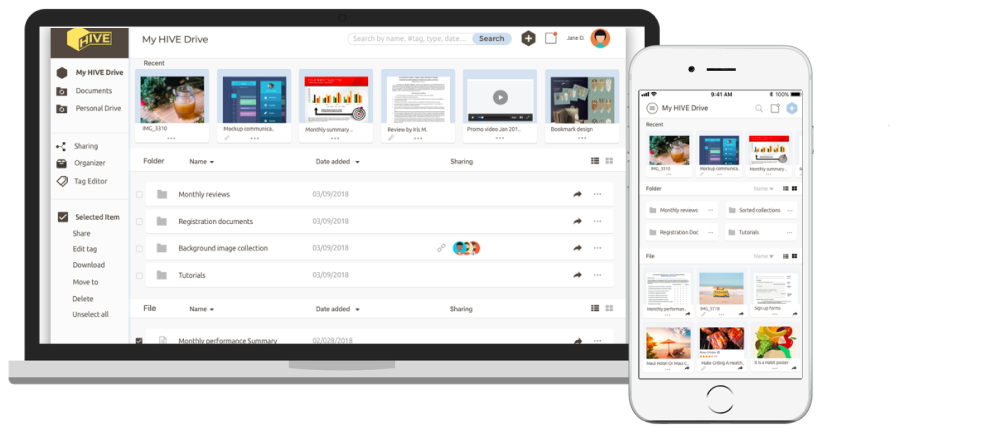
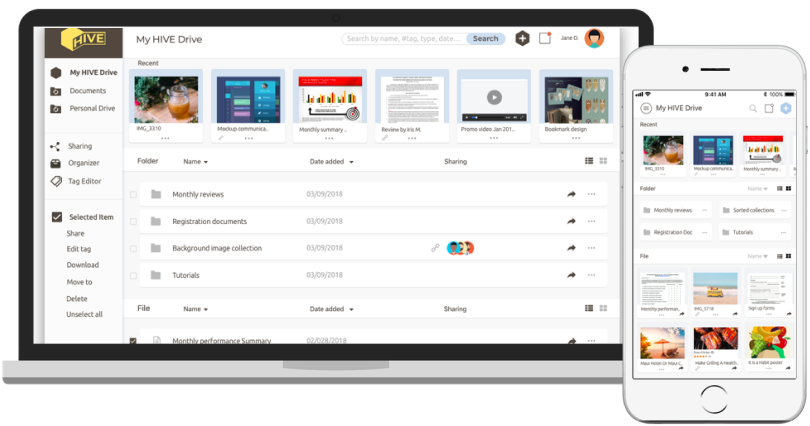
commit before branching

diff --git a/scripts/project1_nav.js b/scripts/project1_nav.js
@@ -7,7 +7,7 @@ window.onscroll = function() {
 
 var navbar = document.getElementById("navbar");
 var moveDown = document.getElementById("summary_h1")
-var sticky = navbar.offsetTop;
+var sticky = (navbar.offsetTop * 0.9);
 
 
 function stickyNav() {
@@ -23,22 +23,22 @@ function stickyNav() {
 // ------ section indicator ------
 
 var summary = document.getElementById("navsummary");
-var sumPos = document.getElementById("summary_h1").offsetTop;
+var sumPos = (0.9 *  document.getElementById("summary_h1").offsetTop);
 
 var exploration = document.getElementById("navexploration");
-var expPos = document.getElementById("exp_h1").offsetTop;
+var expPos = (0.9 *  document.getElementById("exp_h1").offsetTop);
 
 var ideation = document.getElementById("navideation");
-var ideaPos = document.getElementById("idea_h1").offsetTop;
+var ideaPos = (0.9 *  document.getElementById("idea_h1").offsetTop);
 
 var branding = document.getElementById("navbranding");
-var branPos = document.getElementById("bran_h1").offsetTop;
+var branPos = (0.95 *  document.getElementById("bran_h1").offsetTop);
 
 var prot_test = document.getElementById("navprot_test");
-var protPos = document.getElementById("prot_h1").offsetTop;
+var protPos = (0.95 *  document.getElementById("prot_h1").offsetTop);
 
 var conclusion = document.getElementById("navconclusion");
-var conPos = document.getElementById("con_h1").offsetTop;
+var conPos = (0.97 *  document.getElementById("con_h1").offsetTop);
 
 function currentSele(){
   if(window.pageYOffset >= sumPos && window.pageYOffset < expPos) {

diff --git a/styles/home.css b/styles/home.css
@@ -284,7 +284,7 @@ header .bkg {
   }
 
   nav div {
-    width: 80%;
+    width: 90%;
     margin: 0 auto;
     display: flex;
     justify-content: space-between;
@@ -297,12 +297,6 @@ header .bkg {
     display: inline-block;
     float: left;
   }
-
-  /* nav>span {
-    width: 80%;
-    float: right;
-    margin-top:1.5rem;
-  } */
 
   nav h4 {
     float: right;
@@ -431,14 +425,14 @@ header .bkg {
 
   .nav__dot--focus-d {
     background-color: rgba(78,60,97,1);
-    -webkit-animation: fade-in-fwd 0.8s cubic-bezier(0.390, 0.575, 0.565, 1.000) both;
-	        animation: fade-in-fwd 0.8s cubic-bezier(0.390, 0.575, 0.565, 1.000) both;
+    -webkit-animation: fade-in-fwd 0.6s cubic-bezier(0.390, 0.575, 0.565, 1.000) both;
+         animation: fade-in-fwd 0.6s cubic-bezier(0.390, 0.575, 0.565, 1.000) both;
   }
 
   .nav__dot--focus-l {
     background-color: rgba(85,135,135,1);
-    -webkit-animation: fade-in-fwd 0.8s cubic-bezier(0.390, 0.575, 0.565, 1.000) both;
-          animation: fade-in-fwd 0.8s cubic-bezier(0.390, 0.575, 0.565, 1.000) both;
+    -webkit-animation: fade-in-fwd 0.6s cubic-bezier(0.390, 0.575, 0.565, 1.000) both;
+          animation: fade-in-fwd 0.6s cubic-bezier(0.390, 0.575, 0.565, 1.000) both;
   }
 
 

diff --git a/scripts/home_nav.js b/scripts/home_nav.js
@@ -8,7 +8,7 @@ window.onscroll = function(){
 var navbar = document.getElementById("navbar");
 var moveDown = document.getElementById("featured_title")
 // var sticky = navbar.offsetTop;
-var sticky = window.innerHeight;
+var sticky = (0.95 * window.innerHeight);
 
 
 function stickyNav() {
@@ -26,13 +26,13 @@ function stickyNav() {
 // ------ section indicator for max-width 1024px ------
 
 var projects = document.getElementById("navprojects");
-var proPos = document.getElementById("proPos").offsetTop;
+var proPos = (document.getElementById("proPos").offsetTop * 0.95);
 
 var about = document.getElementById("navabout");
-var aboutPos = document.getElementById("aboutPos").offsetTop;
+var aboutPos = (document.getElementById("aboutPos").offsetTop * 0.95);
 
 var connect = document.getElementById("navconnect");
-var connPos = document.getElementById("connPos").offsetTop;
+var connPos = (document.getElementById("connPos").offsetTop * 0.95);
 
 function currentSele(){
   if(window.pageYOffset >= proPos && window.pageYOffset < aboutPos) {
@@ -59,5 +59,3 @@ function currentSele(){
     connect.classList.remove("nav__dot--focus-d");
   }
 }
-
-// ------ section indicator for min-width 1025px ------

diff --git a/styles/project1.css b/styles/project1.css
@@ -128,8 +128,8 @@ header .burger {
   /* width: 4rem; */
   font-size: 2.5rem;
   color: #fff;
-  padding-top: 1.6rem;
-  padding-left: 1.6rem;
+  padding-top: 3rem;
+  padding-left: 3rem;
 }
 
 header .burger:hover {
@@ -153,8 +153,10 @@ header .burger:hover {
 }
 
 .header__mock {
-  width: 100vw;
-  padding-left: 10%;
+  width: 80%;
+  max-width: 60rem;
+  display: block;
+  margin: 0 auto;
 }
 
 header .btn {
@@ -169,9 +171,33 @@ header .btn {
   margin-bottom: 2rem;
 }
 
+@media all and (min-width: 481px) and (max-width: 780px) {
+  .map {
+    width: 60%;
+  }
+}
+
+@media all and (min-width: 781px) and (max-width: 1024px) {
+  .map {
+    width: 50%;
+  }
+}
+
+@media all and (min-width: 1025px) and (max-width: 1280px) {
+  .map {
+    width: 40%;
+  }
+}
+
+@media all and (min-width: 1281px){
+  .map {
+    width: 30%;
+  }
+}
+
 /* ------ nav ------- */
 nav {
-  height: 8rem;
+  height: 6rem;
   overflow:hidden;
   background-color: rgba(248,248,248,1);
   z-index: 999;
@@ -181,7 +207,6 @@ nav {
   justify-content: space-between;
   position: relative;
   visibility: hidden;
-  transition: top 3s ease-in-out;
 }
 
 nav .burger {
